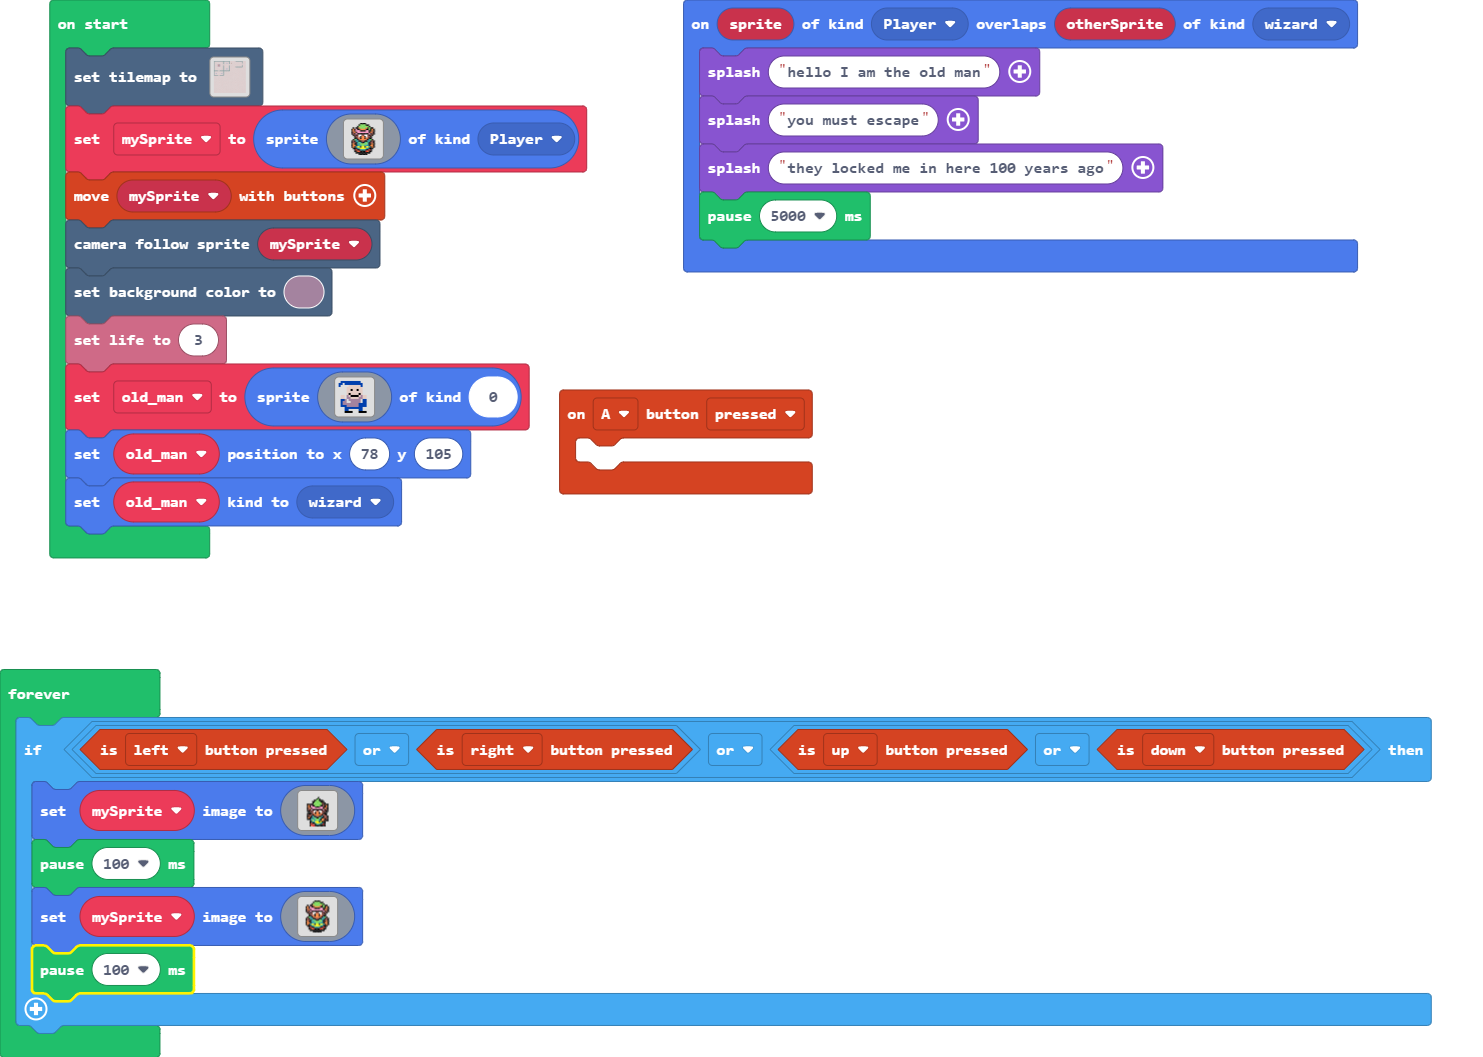
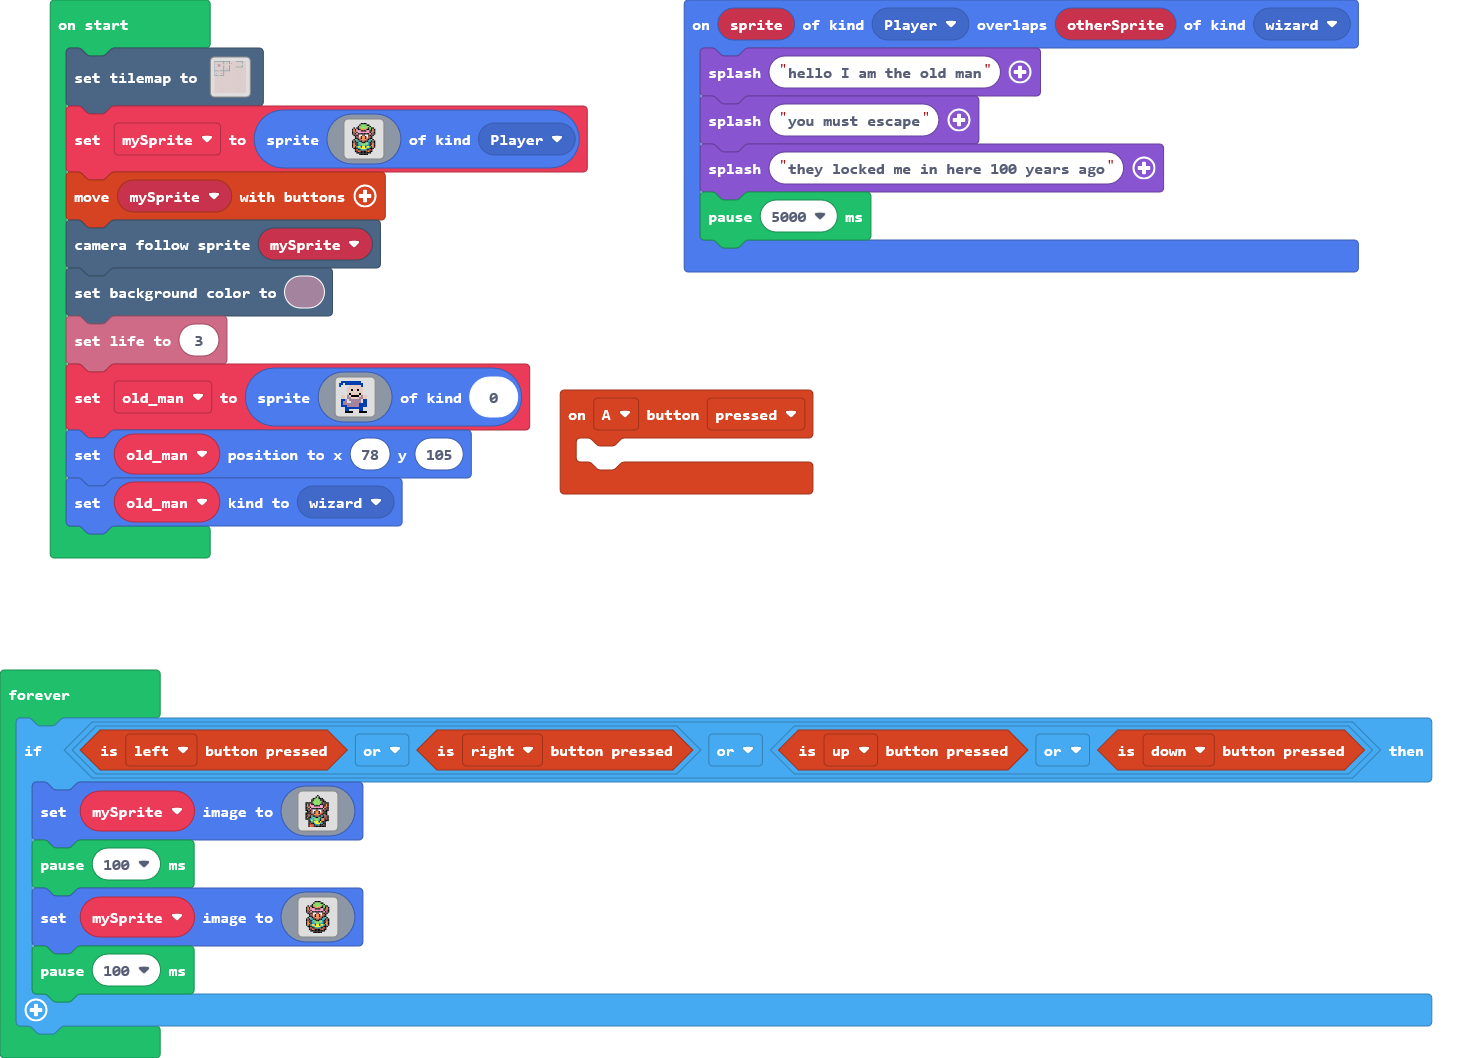
Smaller sprite animation frame so screen doesn't shake

diff --git a/tilemap.g.ts b/tilemap.g.ts
@@ -115,6 +115,59 @@ namespace myTiles {
 ..................................................
 ..................................................
 `, [myTiles.transparency16,sprites.dungeon.floorLight0,sprites.dungeon.floorLight1,sprites.dungeon.floorLightMoss,sprites.dungeon.floorDark1,sprites.dungeon.floorDark0,sprites.dungeon.greenOuterWest1,sprites.dungeon.greenOuterSouthEast,sprites.dungeon.greenOuterSouth0,sprites.dungeon.greenOuterSouthWest,sprites.dungeon.greenOuterNorthEast,sprites.dungeon.greenOuterNorthWest,sprites.dungeon.greenOuterNorth0,sprites.dungeon.greenOuterEast0,sprites.dungeon.chestOpen,sprites.dungeon.collectibleBlueCrystal,sprites.dungeon.collectibleRedCrystal,myTiles.tile1], TileScale.Sixteen);
+            case "level2":
[1 lines of base64/hex data omitted]
+222222222222222222222222222222222222222222222.....
+2..............2........2........2..........2.....
+2..............2........2.....2..2..........2.....
+2..............2........2.....2..2..........2.....
+2..............2........2........2................
+2.....2222................222.2..2................
+2.....2222....................2..2..........2.....
+2.....2222.....2........2..2222..2..........2.....
+2.....2222.....2........2...................2.....
+2..............2........222222222222222222222.....
+2..............2........2.........................
+2..............2........2.........................
+2..............2........2.........................
+2..............2........2.........................
+2..............2........2.........................
+2222222..2222222222222222.........................
+2..............2..................................
+2..............2..................................
+2..............2..................................
+2..............2..................................
+2..............2..................................
+2..............2..................................
+2222222..2222222..................................
+..................................................
+..................................................
+..................................................
+..................................................
+..................................................
+..................................................
+..................................................
+..................................................
+..................................................
+..................................................
+..................................................
+..................................................
+..................................................
+..................................................
+..................................................
+..................................................
+..................................................
+..................................................
+..................................................
+..................................................
+..................................................
+..................................................
+..................................................
+..................................................
+..................................................
+..................................................
+..................................................
+`, [myTiles.transparency16,sprites.dungeon.floorLight0,sprites.dungeon.floorLight1,sprites.dungeon.floorLightMoss,sprites.dungeon.floorDark1,sprites.dungeon.floorDark0,sprites.dungeon.greenOuterWest1,sprites.dungeon.greenOuterSouthEast,sprites.dungeon.greenOuterSouth0,sprites.dungeon.greenOuterSouthWest,sprites.dungeon.greenOuterNorthEast,sprites.dungeon.greenOuterNorthWest,sprites.dungeon.greenOuterNorth0,sprites.dungeon.greenOuterEast0,sprites.dungeon.chestOpen,sprites.dungeon.collectibleBlueCrystal,sprites.dungeon.collectibleRedCrystal,myTiles.tile1,myTiles.tile2], TileScale.Sixteen);
             case "level4":
[1 lines of base64/hex data omitted]
 222222222222222222222222222222222222222222222.....
@@ -168,59 +221,6 @@ namespace myTiles {
 ..................................................
 ..................................................
 `, [myTiles.transparency16,sprites.dungeon.floorLight0,sprites.dungeon.floorLight1,sprites.dungeon.floorLightMoss,sprites.dungeon.floorDark1,sprites.dungeon.floorDark0,sprites.dungeon.greenOuterWest1,sprites.dungeon.greenOuterSouthEast,sprites.dungeon.greenOuterSouth0,sprites.dungeon.greenOuterSouthWest,sprites.dungeon.greenOuterNorthEast,sprites.dungeon.greenOuterNorthWest,sprites.dungeon.greenOuterNorth0,sprites.dungeon.greenOuterEast0,sprites.dungeon.chestOpen,sprites.dungeon.collectibleBlueCrystal,sprites.dungeon.collectibleRedCrystal,myTiles.tile1], TileScale.Sixteen);
-            case "level2":
[1 lines of base64/hex data omitted]
-222222222222222222222222222222222222222222222.....
-2..............2........2........2..........2.....
-2..............2........2.....2..2..........2.....
-2..............2........2........2..........2.....
-2..............2........2........2................
-2.....2222................222.2..2................
-2.....2222....................2..2..........2.....
-2.....2222.....2........2..2222.............2.....
-2.....2222.....2........2...................2.....
-2..............2........222222222222222222222.....
-2..............2........2.........................
-2..............2........2.........................
-2..............2........2.........................
-2..............2........2.........................
-2..............2........2.........................
-2222222..2222222222222222.........................
-2..............2..................................
-2..............2..................................
-2..............2..................................
-2..............2..................................
-2..............2..................................
-2..............2..................................
-2222222..2222222..................................
-..................................................
-..................................................
-..................................................
-..................................................
-..................................................
-..................................................
-..................................................
-..................................................
-..................................................
-..................................................
-..................................................
-..................................................
-..................................................
-..................................................
-..................................................
-..................................................
-..................................................
-..................................................
-..................................................
-..................................................
-..................................................
-..................................................
-..................................................
-..................................................
-..................................................
-..................................................
-..................................................
-`, [myTiles.transparency16,sprites.dungeon.floorLight0,sprites.dungeon.floorLight1,sprites.dungeon.floorLightMoss,sprites.dungeon.floorDark1,sprites.dungeon.floorDark0,sprites.dungeon.greenOuterWest1,sprites.dungeon.greenOuterSouthEast,sprites.dungeon.greenOuterSouth0,sprites.dungeon.greenOuterSouthWest,sprites.dungeon.greenOuterNorthEast,sprites.dungeon.greenOuterNorthWest,sprites.dungeon.greenOuterNorth0,sprites.dungeon.greenOuterEast0,sprites.dungeon.chestOpen,sprites.dungeon.collectibleBlueCrystal,sprites.dungeon.collectibleRedCrystal,myTiles.tile1,myTiles.tile2], TileScale.Sixteen);
         }
         return null;
     })

diff --git a/main.ts b/main.ts
@@ -62,8 +62,6 @@ old_man.setKind(SpriteKind.wizard)
 forever(function () {
     if (controller.left.isPressed() || controller.right.isPressed() || (controller.up.isPressed() || controller.down.isPressed())) {
         mySprite.setImage(img`
-            ..................
-            ..................
             .........f........
             ........f7f.......
             ......ff77fff.....

diff --git a/images.g.ts b/images.g.ts
@@ -152,8 +152,6 @@ f4f655f55f556f4f
 .....ffffff.....
 `;
             case "image8":return img`
-..................
-..................
 .........f........
 ........f7f.......
 ......ff77fff.....
